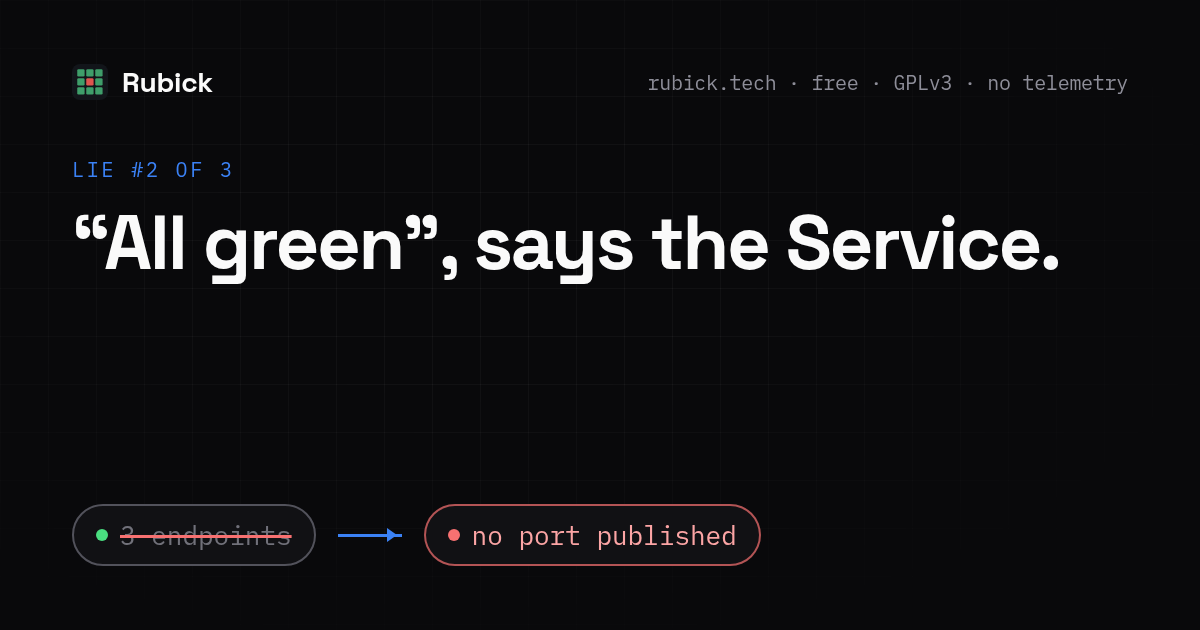
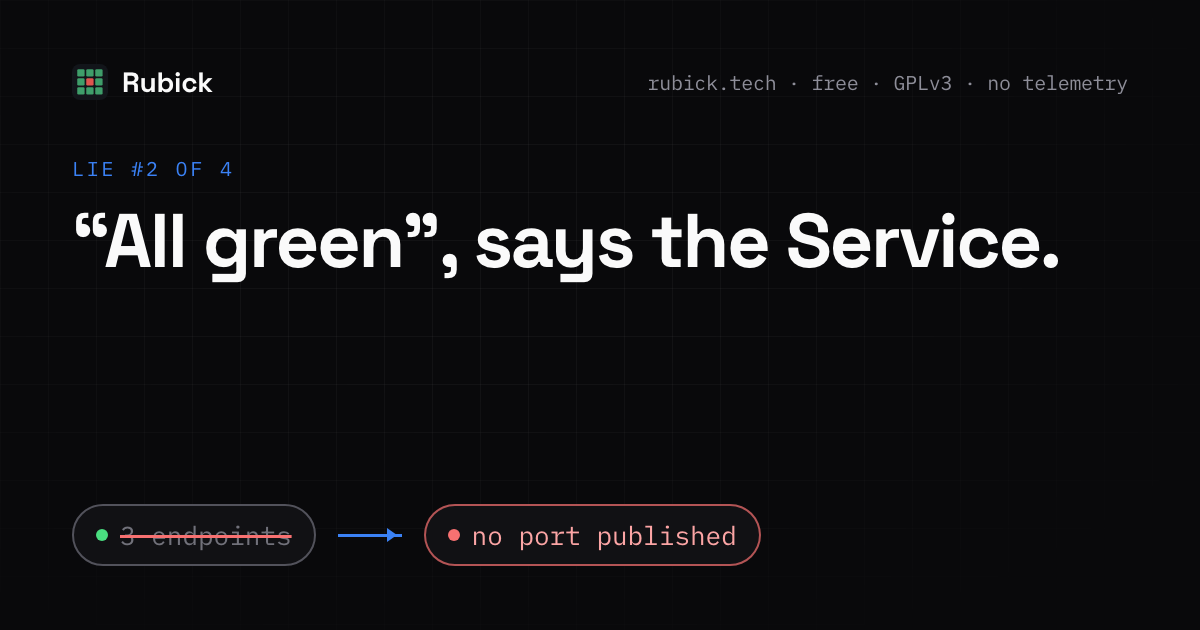
web: a fourth lie, the policy that was thrown away

diff --git a/web/src/lib/lies.tsx b/web/src/lib/lies.tsx
@@ -14,6 +14,17 @@ export type Lie = {
   evidence: ReactNode;
   visual?: "chain";
   correction?: true;
+  /**
+   * Its own reproduce block, for a lie the shared throwaway cluster cannot
+   * show. The first three live in plain objects and need no CNI; this one
+   * needs a cluster that actually enforces policy.
+   */
+  reproduce?: {
+    heading: string;
+    blurb: string;
+    commands: string[];
+    note: string;
+  };
   img: (typeof IMG)[keyof typeof IMG];
   alt: string;
 };
@@ -86,7 +97,51 @@ export const LIES: Lie[] = [
     img: IMG.chain,
     alt: "A traffic chain that stops, with the reason named at the broken link",
   },
+  {
+    slug: "protected",
+    short: "Protected",
+    lie: '"Protected", says the namespace.',
+    bust: "Four network policies in the list, three of them enforced. The fourth has an In operator inside an ingress rule with no values under it, which the Cilium operator cannot parse, so it throws the rule away and keeps the object. The name is the same, the age is the same, and the selector at the top still reads as if it covers those pods, which are now open. The only record is a condition inside the policy's status, and no ordinary list of custom resources shows it. Rubick puts that answer first in the row and names the pods left uncovered.",
+    description:
+      "A CiliumNetworkPolicy its operator rejects stays in the cluster looking like one that works. Rubick reads the Valid condition and shows which pods are left open.",
+    reported: "4 policies",
+    observed: "1 thrown away for a typo",
+    evidence: (
+      <div className="flex flex-col gap-2">
+        <TruthSwap
+          reported="4 policies"
+          observed="3 enforcing · 1 thrown away for a typo"
+        />
+        <p className="font-mono text-sm text-neutral-500">
+          Valid: False · invalid label selector: matchExpressions[0].values:
+          Required value: must be specified when `operator` is 'In' or 'NotIn'
+        </p>
+        <p className="font-mono text-sm text-neutral-500">
+          kubectl get cnp prints a VALID column, so the CLI is not fooled.
+        </p>
+      </div>
+    ),
+    reproduce: {
+      heading: "One cluster, one typo.",
+      blurb:
+        "This one needs a CNI that actually enforces policy, so the throwaway cluster is a little larger than the others: kind without its default network plugin, then Cilium on top. The typo is an In operator with no values under it, four lines deep in an ingress rule, which is easy to write and hard to spot again afterwards.",
+      commands: [
+        "kind create cluster --config https://rubick.tech/lies/cilium-kind.yaml",
+        "helm repo add cilium https://helm.cilium.io/ && helm install cilium cilium/cilium -n kube-system --set ipam.mode=kubernetes",
+        "kubectl apply -f https://rubick.tech/lies/protected.yaml",
+        "kubectl -n rubick-lies get cnp",
+      ],
+      note: "# kubectl prints a VALID column, so the CLI is not fooled. A list of custom resources shows four rows and stops there.",
+    },
+    img: IMG.cilium,
+    alt: "Endpoints with the policies that select them, and the ones nothing covers",
+  },
 ];
+
+/** The count as a word, so a fifth lie does not leave the heading wrong. */
+export const LIES_COUNT_SAID =
+  ["no", "one", "two", "three", "four", "five", "six", "seven"][LIES.length] ??
+  String(LIES.length);
 
 export function lieNumber(l: Lie) {
   return LIES.indexOf(l) + 1;

diff --git a/web/src/components/reproduce.tsx b/web/src/components/reproduce.tsx
@@ -2,7 +2,44 @@ import { CommandLine } from "./command-line";
 import { Reveal } from "./motion/reveal";
 import { LINKS } from "../lib/site";
 
-export function ReproducePanel({ className = "" }: { className?: string }) {
+export function ReproducePanel({
+  className = "",
+  own,
+}: {
+  className?: string;
+  /** A lie the shared cluster cannot show brings its own recipe. */
+  own?: {
+    heading: string;
+    blurb: string;
+    commands: string[];
+    note: string;
+  };
+}) {
+  if (own) {
+    return (
+      <Reveal
+        className={`rounded-xl border border-neutral-800 bg-neutral-900/60 p-6 md:p-8 ${className}`}
+      >
+        <p className="text-accent font-mono text-sm tracking-widest uppercase">
+          Reproduce it
+        </p>
+        <h3 className="mt-3 font-display text-2xl font-bold tracking-tight md:text-3xl">
+          {own.heading}
+        </h3>
+        <p className="mt-4 max-w-2xl text-neutral-400">{own.blurb}</p>
+        <div className="mt-6 flex flex-col gap-3">
+          {own.commands.map((command) => (
+            <CommandLine key={command} command={command} />
+          ))}
+        </div>
+        <p className="mt-6 font-mono text-sm text-neutral-500">{own.note}</p>
+      </Reveal>
+    );
+  }
+  return inner(className);
+}
+
+function inner(className: string) {
   return (
     <Reveal
       className={`rounded-xl border border-neutral-800 bg-neutral-900/60 p-6 md:p-8 ${className}`}
@@ -11,17 +48,17 @@ export function ReproducePanel({ className = "" }: { className?: string }) {
         Reproduce them
       </p>
       <h3 className="mt-3 font-display text-2xl font-bold tracking-tight md:text-3xl">
-        Three lies, one throwaway cluster.
+        Three of them, one throwaway cluster.
       </h3>
       <p className="mt-4 max-w-2xl text-neutral-400">
-        kind or k3d is enough, and no ingress controller is needed: the lies
-        live in the objects, not in the traffic. You get a pod whose phase is
-        Running while its only container crashes on every start, with the
-        ConfigMap, Secret and volume its page will list, a Service whose three
-        pods are Ready and which publishes no port next to a twin Service on the
-        same pods that publishes fine, and one host with four paths: one
-        healthy, one behind the crashlooping pod, one behind the mistyped port,
-        one pointing at a Service that does not exist.
+        kind or k3d is enough for these three, and no ingress controller is
+        needed: the lies live in the objects, not in the traffic. You get a pod
+        whose phase is Running while its only container crashes on every start,
+        with the ConfigMap, Secret and volume its page will list, a Service
+        whose three pods are Ready and which publishes no port next to a twin
+        Service on the same pods that publishes fine, and one host with four
+        paths: one healthy, one behind the crashlooping pod, one behind the
+        mistyped port, one pointing at a Service that does not exist.
       </p>
       <div className="mt-6 flex flex-col gap-3">
         <CommandLine command={`kubectl apply -f ${LINKS.lies}`} />

diff --git a/web/src/components/lie-page.tsx b/web/src/components/lie-page.tsx
@@ -16,7 +16,7 @@ export function LiePage({ lie }: { lie: Lie }) {
     <>
       <Nav />
       <main>
-        <Section eyebrow={`Lie #${n} of 3`}>
+        <Section eyebrow={`Lie #${n} of ${LIES.length}`}>
           <Reveal>
             <h1 className="max-w-4xl font-display text-4xl font-bold tracking-tight md:text-6xl">
               {lie.lie}
@@ -41,7 +41,7 @@ export function LiePage({ lie }: { lie: Lie }) {
           <Reveal settle className="mt-12">
             <WindowFrame img={lie.img} alt={lie.alt} eager />
           </Reveal>
-          <ReproducePanel className="mt-16" />
+          <ReproducePanel className="mt-16" own={lie.reproduce} />
           <Reveal className="mt-16 flex flex-wrap items-center gap-4">
             <ButtonLink href="/#install">Get Rubick</ButtonLink>
             {others.map((o) => (

diff --git a/web/src/sections/lies.tsx b/web/src/sections/lies.tsx
@@ -4,14 +4,15 @@ import { ReproducePanel } from "../components/reproduce";
 import { TrafficChain } from "../components/traffic-chain";
 import { Section } from "../components/section";
 import { WindowFrame } from "../components/window-frame";
-import { LIES } from "../lib/lies";
+import { LIES, LIES_COUNT_SAID } from "../lib/lies";
 
 export function Lies() {
   return (
     <Section eyebrow="Status: fine, apparently">
       <Reveal>
         <h2 className="max-w-3xl font-display text-3xl font-bold tracking-tight md:text-5xl">
-          Three lies you have already been told this week.
+          <span className="capitalize">{LIES_COUNT_SAID}</span> lies you have
+          already been told this week.
         </h2>
       </Reveal>
       <div className="mt-16 flex flex-col gap-24 md:gap-32">

diff --git a/web/src/routes/lies/protected.tsx b/web/src/routes/lies/protected.tsx
@@ -1,0 +1,14 @@
+import { createFileRoute } from "@tanstack/react-router";
+import { LiePage } from "../../components/lie-page";
+import { lieHead, LIES } from "../../lib/lies";
+
+const lie = LIES.find((l) => l.slug === "protected")!;
+
+export const Route = createFileRoute("/lies/protected")({
+  head: () => lieHead(lie),
+  component: Page,
+});
+
+function Page() {
+  return <LiePage lie={lie} />;
+}

diff --git a/web/src/lib/site.ts b/web/src/lib/site.ts
@@ -77,4 +77,5 @@ export const IMG = {
   },
   chain: { src: "/images/traffic-chain-stops.webp", width: 1190, height: 255 },
   scale: { src: "/images/scale-interception.webp", width: 512, height: 220 },
+  cilium: { src: "/images/cilium-coverage.webp", width: 1150, height: 420 },
 } satisfies Record<string, Shot>;
